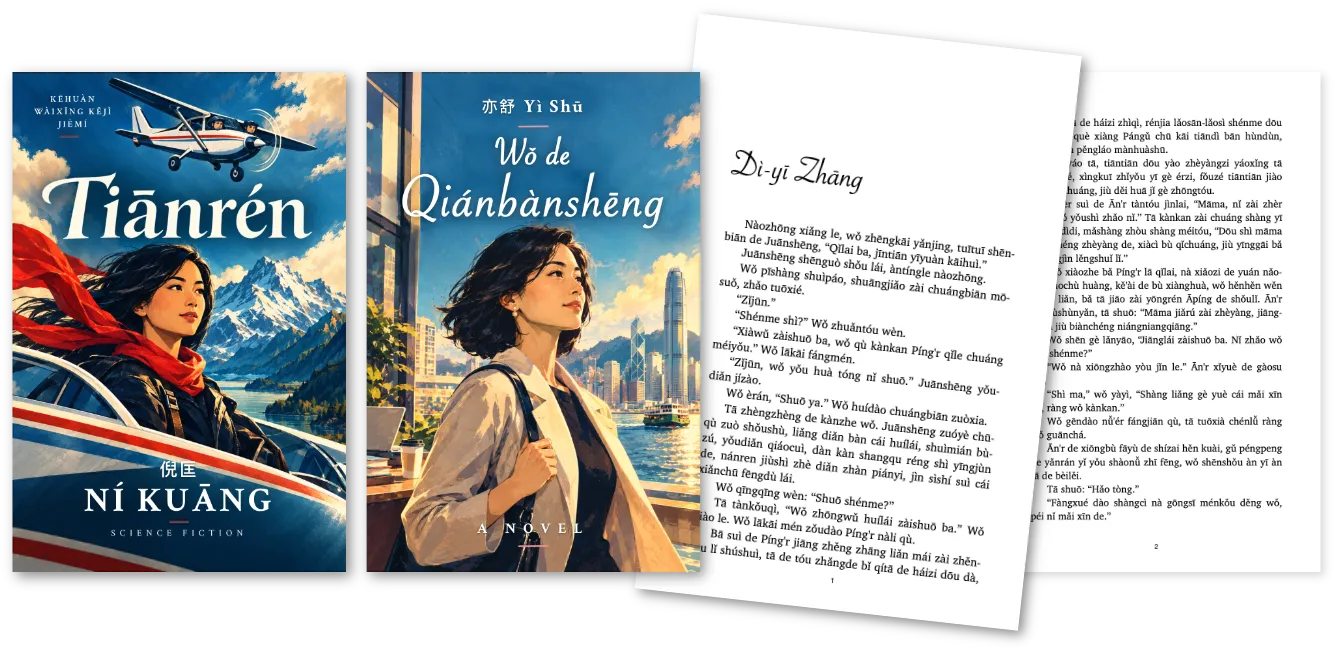
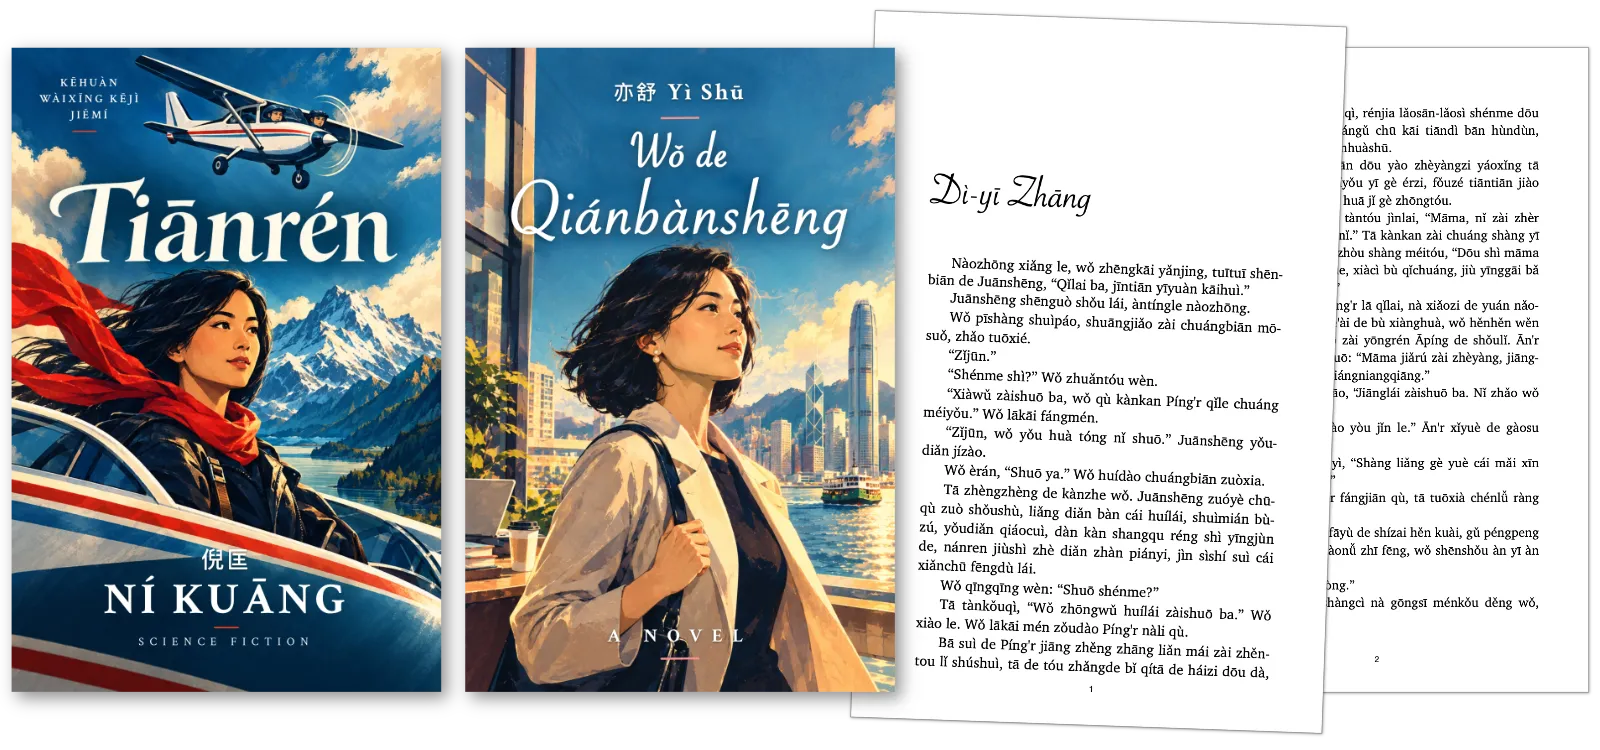
Update home page

diff --git a/content/manifesto 2.md b/content/manifesto 2.md
@@ -5,11 +5,11 @@ seo_description: "Why bypassing the character barrier unlocks immediate access t
 url: "/manifesto/"
 ---
 
-{{< hero level="h0" title="From Soundboard to Native Text." subtitle="The methodology and software behind Pīnyīn Explorer Method is designed to take you directly into authentic Mandarin." >}}
+{{< hero level="h0" title="Real Mandarin From Day One." subtitle="You don't need to know thousands of Chinese characters to start learning Mandarin. The Pīnyīn Explorer method takes you straight into authentic modern Mandarin through official Hànyǔ Pīnyīn." >}}
 
 {{< cta_button text="Download macOS Apps" url="/download/" style="primary" >}}
 
-{{< hero src="/images/modern-chinese-novels-pinyin_no_hanzi.webp" title="" subtitle="What if… modern Chinese novels could be read entirely in Hànyǔ Pīnyīn, and found in bookstores alongside the world’s great literature?" >}}
+{{< hero src="/images/book_covers_modern_chinese2.webp" title="" subtitle="What if… modern Chinese novels could be read entirely in Hànyǔ Pīnyīn, and found in bookstores alongside the world’s great literature?" >}}
 
 ---
 
@@ -125,15 +125,7 @@ Hànyǔ Pīnyīn is far more than a pronunciation aid or a way to input Chinese 
 
 ### Immediate access to the language
 
-{{< img src="/images/pinyin_explorer_scifi_future_banner.webp" alt="" shadow="true" >}}
-
-{{< box header="Liú Cíxīn • 三体 • ◼001" shadow="true" subtitle="Excerpt from Liú Cíxīn’s »The Three-Body Problem« in official Hànyǔ Pīnyīn" >}}
-Wāng Miǎo juéde, lái zhǎo tā de zhè sì gè rén shì yī gè qíguài de zǔhé: liǎng míng jǐngchá hé liǎng míng jūnrén, rúguǒ nà liǎng gè jūnrén shì wǔjǐng hái suàn zhèngcháng, dàn zhè shì liǎng míng lùjūn jūnguān.
-
-“Qǐng bù yào zài wǒ jiā lǐ chōuyān.” Wāng Miǎo lánzhùle tā.
-
-“Nà jiù zài lóudào lǐ shuō ba.” Shǐ Qiáng shuōzhe, shēnshēn de xīle yī dàkǒu, shǒu zhōng de yān jīhū rán xiàqù yībàn.
-{{< /box >}}
+{{< img src="/images/santi_three_body_problem_pinyin@1.webp" alt="The first paragraph from Liu Cixin’s trilogy »The Three-Body Problem«" shadow="true" >}}
 
 What if you could dive straight into the original Chinese of Liu Cixin’s masterpiece, The Three-Body Problem—grappling with the vocabulary, unspooling the grammar, and soaking in the references—without spending five years memorizing characters first? Learning the language and tackling a sci-fi novel like this will be hard enough, even without the characters.
 
@@ -147,103 +139,166 @@ Some people even find Hànyǔ Pīnyīn a particularly charming use of the Latin 
 
 {{< hero src="/images/3steps.webp" title="" subtitle="" >}}
 
-A clear, structured pathway to fluent Mandarin reading and progressive text comprehension:
+A clear, structured path to fluent Mandarin reading and progressive text comprehension:
 
 ## 1. Pronunciation & Sound Immersion
-Master the complete monosyllabic and phonotactic inventory of Mandarin. Before worrying about complex compound meanings, train your ears and vocal muscles using the **Pīnyīn A-Z Soundboard**. Click, listen, shadow, and group syllables to build an intuitive phonological foundation and eliminate tone confusion from day one.
+Start with the complete monosyllabic, phonotactic, and morphemic inventory on the **A-Z Soundboard**. Audition every dictionary-backed base word before touching compound meanings. Click, listen, shadow, and group syllables to build an intuitive phonological foundation and eliminate tone confusion from day one.
 
 {{< img src="/images/pinyin_soundboard_wide.webp" alt="Pīnyīn A-Z Soundboard" shadow="true" >}}
 
-## 2. Core Anchor Words & Semantic Mapping
-Build your foundation around **365 monosyllabic core anchor words**—the structural root elements of modern Mandarin. 
+## 2. Master the 365 Core Anchor Words
 
-1. **Drill the Roots:** Use the built-in Flashcard and Quiz system to master high-leverage monosyllabic root words.
-2. **Map the Networks:** Branch these roots out into thousands of compound words using hand-drawn **Semantic Word Maps**. Connecting root concepts to practical compounds turns isolated memorization into a web of meaningful context.
+For your vocabulary learning, you start out with learning 365 monosyllabic core anchor words. These form much of the basic fabric of the language. To do so, you'll play with Pīnyīn Explorer's built in Flashcard and Quiz system. This is the ultimate high-leverage shortcut to modern Mandarin.
 
-{{< img src="/images/pinyin_explorer_shall_we_play.webp" alt="Start a Quiz Game in Pīnyīn Explorer" shadow="true" >}}
+{{< img src="/images/pinyin_explorer_shall_we_play.webp" alt="Start a Quiz Game in Pīnyīn Explorer to Master the 365 Core Anchor Words" shadow="true" >}}
+
+**The Ingenuity Behind the 365 Core Anchor Words**
+
+* **Building Phonetic Intuition:** When a single Pīnyīn syllable represents multiple meanings, traditional flashcards bloat up in numbers quickly. By organizing vocabulary into clear semantic word families, you instantly recognize the core meaning behind each one-syllable word as you hear or read it.
+
+* **High-Leverage Vocabulary:** These 365 root words form the foundation of everyday Mandarin. By mastering these core monosyllabic building blocks first, compound words and new vocabulary becomes significantly easier to deduce, remember, and connect in context.
+
+* **The Foundation for Semantic Word Maps:** By branching these 365 words out into thousands of compound words, you grow your understanding how Mandarin vocabulary grows.
 
 ## 3. Transition into Authentic Reading
-Skip artificial graded readers. Drop real podcast transcripts, news articles, and native media directly into the **Peekaboo Reader**. Progress smoothly from recognizing basic punctuation and high-frequency anchor nodes to reading unassisted native text out loud.
+Skip artificial graded readers. Drop real podcast transcripts, news articles, and native media directly into the **Peekaboo Reader**. Follow a progression from recognizing basic punctuation and high-frequency anchor nodes to reading native text out loud.
 
-{{< img src="/images/pinyin_reader_graded_reader_by_frequency.webp" alt="Peekaboo Reader Frequency Masking" shadow="true" >}}
+{{< img src="/images/pinyin_reader_graded_reader_by_frequency.webp" alt="All words are hidden except for the most frequent 15 words" shadow="true" >}}
+
+Over the course of two years, dozens of prototypes, and countless iterations, Peekaboo Reader evolved from a simple idea to a highly sophisticated reading tool.
 
 {{< cta_button text="Download macOS Apps" url="/download/" style="primary" >}}
 
 ---
 
-{{< hero level="h0" title="The Pīnyīn Explorer Toolkit" subtitle="Dedicated Software & Paper Exercises" >}}
+{{< hero level="h0" title="The Pīnyīn Explorer Toolkit" subtitle="The Apps and Exercises with Pen & Paper" >}}
 
-Every stage of your journey is supported by specialized tools engineered for deep, friction-free learning.
+A carefully designed set of tools supports your progression on every stage of the journey, from pronunciation to fluent reading.
 
-## 1. Pīnyīn A-Z Soundboard
-*Speak Mandarin from Day One*
+## Pīnyīn A-Z Soundboard
 
-The ultimate interactive Pinyin chart—featuring 2,000+ native recordings, pitch visualizers, and surgical filtering options.
-
-When 'Lexicalised' mode is toggled on, you aren't just looking at random theoretical syllables—you're looking at actual, standalone single-syllable words found in the dictionary.
+Speak Mandarin from day one. The complete monosyllabic, phonotactic, and morphemic inventory of modern Mandarin. The ultimate Pinyin chart. 2,000+ native recordings, pitch visualizer, and extensive search and filtering options.
 
 {{< img src="/images/pinyin_az_soundboard_hero_sans@1.webp" alt="Pīnyīn A-Z Soundboard" shadow="true" >}}
 
-* **Complete Dictionary-Backed Inventory:** Explore 1,290+ real, standalone single-syllable words (over 2,000 including 5th tone variations) rather than theoretical sound blocks.
-* **Pitch Visualizer:** Real-time fundamental frequency curves clarify true native pitch dynamics beyond rigid textbook diagrams.
-* **Phonotactic Mastery:** Train your intuition to recognize valid syllable structures instantly and catch misspellings in the wild.
-* **Power Features:** First-class keyboard navigation, active recall testing (blur/unblur columns), configurable autoplay loops, and a instant Dual-Notation toggle (Pīnyīn / Bopomofo).
-
-{{< img src="/images/mandarin_pinyin_pitch_visualiser.webp" alt="Mandarin Pinyin Pitch Visualiser" shadow="true" >}}
+* **Monosyllabic Foundation:** Mandarin isn't built on long, winding words like German or English—it’s built on distinct single-syllable words. All of them are listed in the Pīnyīn A-Z Soundboard.
+* **Real Words (2,056 Human Recordings):** When "Lexicalised" mode is toggled on, you aren't just looking at random theoretical syllables—you're looking at actual, standalone single-syllable words found in the dictionary. 1,290 words to be precise (1,535 if we include words with the 5th, collapsed tone.) Click on any word to hear it spoken out loud, or jump directly to its definition in the Pīnyīn Explorer dictionary.
+* **Phonotactic Boundaries:** "Phonotactics" simply means the strict rules that dictate which sound combinations are allowed in a language. Working with the Pīnyīn A-Z Soundboard trains your eyes and ears to intuitively recognize valid Mandarin words, and thus spot misspelled words out there in the real world.
 
 ---
 
-## 2. Pīnyīn Explorer
-*Structural Dictionary & Quiz System*
+### A Power Chart Like No Other
 
-A thoughtfully designed Chinese–English dictionary built specifically to reveal how Mandarin vocabulary connects and branches.
+Looking closely at the UI reveals extraordinary power features that standard web Pīnyīn charts don't even attempt to offer:
+
+{{< hero src="/images/mandarin_pinyin_pitch_visualiser.webp" alt="The 4 tones as everyone had to learn them"
+shadow="true" >}}
+
+* **Pitch Visualiser:** Displays the exact fundamental frequency contour curve for every syllable, helping your eyes (and ears) to make sense of the true native pitch dynamics.
+* **First-Class Keyboard Navigation:** You don't need to click items several times to arrive at them or hear their pronunciation. The navigation is well thought out and lets you browse the soundboard efficiently and effortlessly.
+* **Active Recall Testing:** Blur entire columns and unblur single words to reveal them, to test your phonetic memory and ear recognition on the fly.
+* **Autoplay:** Hands-free drill mode with configurable loops, adjustable intervals, and customizable column-end behaviors (*Flow*, *Loop*, *Wall*).
+* **Dual Notation Toggle:** Switch between Hànyǔ Pīnyīn and Bopomofo (Zhuyin) without breaking your workflow.
+* **Sorting, Scoping & Tone Isolation:** Sort by native frequency vs. alphabet, toggle lexicalized dictionary entries vs. all theoretically possible variants, or filter specific tone combinations to eliminate tone confusion permanently.
+
+{{< img src="/images/pinyin_soundboard_filter.webp" alt="Unlimited filtering options to drill the hardest combinations" shadow="true" >}}
+
+{{< img src="/images/chinese_mandarin_bopomofo_soundboard.webp" alt="Some say Bopomofo is the only way to live, let's go!" shadow="true" >}}
+
+
+## Pīnyīn Explorer
+
+A thoughtfully designed Pīnyīn-first Chinese–English dictionary for exploring the structure of Mandarin vocabulary.
+
+### Iconic features of Pīnyīn Explorer:
+
+- 114,000+ entries adapted for Pīnyīn-based lookup
+- Adjustable dictionary size based on frequency or syllabus
+- Syllable-grouped columns with click-through headwords
+- A comprehensive inventory of monosyllabic words, browsable by multiple metrics
+- A classic five-box Leitner flashcard and quiz system with pedagogically structured learning progressions
+- Built on original research into modern spoken Mandarin
+
+### Syllable-Grouped Columns with Click-Through Headwords
 
 {{< img src="/images/pinyin_explorer_hero_sans@1.webp" alt="Pīnyīn Explorer" shadow="true" >}}
 
-* **114,000+ Lookups & Multi-Column Layout:** Replace overwhelming vertical list dumps with clean, cascading syllable tiers that display how base roots expand into compounding networks.
-* **Adjustable Dictionary Scope:** Filter dictionary density by HSK levels (1–9), top 12,000 everyday terms, or top 50,000 extended entries.
-* **3D Structural Dimensions:** Explore monosyllabic roots by **Semantic Density** (single-meaning vs. overloaded roots), **Productive Compounds** (standalone vs. high-building-block roots), and **Word Frequency**.
-* **Distraction-Free Leitner Flashcards:** A classic 5-box Leitner system as intended in the original design of Sebastian Leitner’s 1972 book 'So lernt man lernen'—with zero notifications, stats, streaks, or email fluff.
+The dictionary search interface of Pīnyīn Explorer solves the chaotic, endless-list problem of traditional dictionary apps.
 
-{{< img src="/images/pinyin_explorer_frequent_words.webp" alt="Monosyllabic root inventory sorted by frequency" shadow="true" >}}
+Instead of an overwhelming vertical dump of thousands of entries, the interface uses a clean, cascading multi-column layout of syllable tiers—refocusing the entire coordinate system around your selection to reveal how words branch outward into deeper compounding networks.
 
----
+### Adjustable dictionary size based on frequency or syllabus
 
-## 3. Peekaboo Reader
-*Distraction-Free Masked Reading Environment*
+{{< img src="/images/pinyin_explorer_dictionary_cut_hsk3.webp" alt="Adjustable dictionary size based on frequency or syllabus" shadow="true" >}}
 
-Import text in Hànzì or Hànyǔ Pīnyīn from news, podcast transcripts, or translations and transform it into an interactive reading playground.
+* **Full Dictionary:** Access the complete lexicon without restrictions.
+
+* **Top 50,000 Entries:** Rich and expressive vocabulary, curated to filter out obscure or overly specialized terms (like rare bird species names 🦤).
+
+* **Top 12,000 Entries:** Core everyday expressions, ideal for navigating general topics and mainstream media.
+
+* **HSK 3.0 (Levels 1–9):** Perfectly aligned with standard curricula, allowing you to observe how official wordlists branch out, cluster, and overlap.
+
+### A Comprehensive Inventory of Monosyllabic Words, Browsable by Multiple Metrics
+
+{{< img src="/images/pinyin_explorer_frequent_words.webp" alt="The inventory of modern Mandarin by frequency" shadow="true" >}}
+
+Rather than sorting vocabulary purely by arbitrary textbook chapters, explore the entire inventory of single-syllable roots through three distinct structural dimensions:
+
+* **Semantic Density (Block Height):** Classified from *Sharply Defined* words with a single, clear meaning, up to *Excessively Overloaded* roots carrying dozens of distinct meanings across various contexts.
+
+* **Productive Compounds (Block Width):** Grouped from *Standing Alone* words with minimal combinatory use, up to *Core Building Blocks*—highly prolific roots that generate hundreds or even thousands of compound words.
+
+* **Word Frequency (Color Intensity):** Ranging from *Ubiquitous* structural anchors—words present in virtually every single Chinese sentence—down to *Long-Tail* descriptive terms that preserve the language’s depth.
+
+{{< hero src="/images/pinyin_explorer_quiz_cards.webp" title="" subtitle="The Flashcards and Quiz Game of Pīnyīn Explorer" shadow="true" >}}
+
+### Simple-looking but not simple
+
+The flashcards system is as simple as paper cards in boxes: a classic 5-box Leitner system as intended in the original design of the famous book by Sebastian Leitner “So lernt man lernen” (1972), with zero notifications, no stats, no streaks, no emails. 
+
+Likewise the quiz interface, but under the hood the quiz engine provides sophisticated progression algorithms, randomisation, and deck feeding—the result of months of research, fine-tuning, and engineering. 
+
+## Peekaboo Reader
+
+A plain-text reading environment with adjustable Pīnyīn visibility.
 
 {{< img src="/images/pinyin_peekaboo_reader_hero_sans@1.webp" alt="Pīnyīn Explorer’s Peekaboo Reader" shadow="true" >}}
 
-* **Smart Pīnyīn Masking:** Adjust visibility by word frequency or curated sets. Hide full compounds or individual morphemes, and hover for a quick "peek-a-boo" hint.
-* **Automatic Orthographic Segmentation:** Powered by our dictionary-guided segmentation engine (*Pīnyīn-Goat*), text written in Chinese characters is automatically converted into natural, readable Pīnyīn sentences following standard orthographic rules (GB/T 16159-2012).
-* **Deep Interactivity:** Hover over words for instant definitions, or click any term to jump straight into deeper exploration inside Pīnyīn Explorer.
+→ Read Mandarin from day one  
+→ Adjust Pīnyīn visibility by frequency or curated sets  
+→ Hide whole compounds or merely constituent morphemes  
+→ Hover over a hidden Mandarin word to have a quick peek-a-boo!  
+→ Built-in dictionary, just hover over a word to see its definition
+→ Click any word to explore it in Pīnyīn Explorer  
 
-### Question: Where do the Pīnyīn transcripts from?
-Bring your own, grab them from your favorite podcasts, leverage modern AI tools, copy it over from Google translate, or simply paste Chinese characters directly into the Peekaboo Reader. The built-in engine automatically converts Chinese characters text into natural, readable Pīnyīn sentences following **GB/T 16159-2012** orthographic standards.
+**Question: Where do I get the Pīnyīn transcripts from?**
 
-Under the hood, Peekaboo Reader uses a two-stage conversion engine engineered specifically for standard-compliant Mandarin:
+Bring your own, grab them from your favorite podcasts, leverage modern AI tools, copy it over from Google translate, or simply paste raw Chinese characters directly into the Peekaboo Reader. The built-in engine automatically converts raw text into natural, readable Pīnyīn sentences following **GB/T 16159-2012** orthographic standards—handling word boundaries and grammatical particles properly instead of leaving you with isolated syllables.
 
-1. **Word Segmentation (DAG + Viterbi):** A custom, dictionary-guided Unigram language model utilizes Directed Acyclic Graphs (DAG) and Viterbi dynamic programming for Maximum Likelihood Word Segmentation, resolving word boundaries with high precision. (pīnyīn-goat 🐐)
-2. **Orthographic Pipeline (GB/T 16159-2012):** The segmented output is transformed through an orthographic ruleset—handling polyphones, affix joining and grammatical particles, as well as punctuation to produce natural reading sentences. (OrthoPinyinEngine)
+Under the hood, Peekaboo Reader is powered by Pīnyīn-Goat 🐐—a specialized, dictionary-guided Unigram language model that uses Directed Acyclic Graphs (DAG) and Viterbi dynamic programming for Maximum Likelihood Word Segmentation. While no deterministic model gets language 100% right—you might spot a segmentation glitch once or twice a paragraph—its dynamic probability flooring, polyphone resolution, and orthographic pipeline deliver a remarkably fluid reading flow.
 
----
+## Semantic Word Maps
 
-## 4. Semantic Word Mapping
-*Analogue Pen & Paper Exercise*
+Drawing manual maps gives your creativity free rein while deep memory takes root. 
 
-While software handles lookup and flashcard drilling, drawing manual word maps engages spatial memory and creative association.
+1. **Place a base Pīnyīn word in the center**—for example, **dàn**.
+2. **Branch out into its primary senses:** **EGG**, **BULLET**, **WEAK**, or **HOWEVER**.
+3. **Choose your compounds:** Scan the word's column list in the Flashcards module—or search the Pīnyīn Explorer dictionary—and pick the compounds you like, find useful, or love. Capture words from your daily reading and listening, or simply ones that make you laugh. Why is a cake a *dàngāo* ("egg high" or "egg paste")? Why is a bullet a *zǐdàn* ("child egg")?
 
-{{< img src="/images/alfons_pinyin_word_map3.webp" alt="Creating a semantic word map" shadow="true" >}}
+{{< img src="/images/alfons_pinyin_word_map3.webp" alt="Where to put what on a semantic word map?" shadow="true" >}}
 
-1. **Anchor the Root:** Place a base Pīnyīn root in the center (e.g., **dàn**).
-2. **Branch Primary Senses:** Split the word into core meanings—**EGG**, **BULLET**, **WEAK**, or **HOWEVER**.
-3. **Attach Compounds:** Select compounds from your daily reading or dictionary searches and link them visually (*zǐdàn* = "child egg" = bullet).
+The semantic word maps work best when done regularly—for example, one or two maps per day.
 
-Building 1–2 word maps daily turns isolated vocabulary into an interconnected, permanent personal network.
+These maps help you discover a word's semantic families and most useful compounds. As you build your own, thousands of individual words gradually become an interconnected network.
 
-{{< img src="/images/alfons_pinyin_word_map2.webp" alt="Word Map examples" shadow="true" >}}
+### Curate Your Own Lexicon
+
+The foundation is built on the 365 curated words from Pīnyīn Explorer, but you can always choose your own root words outside this set (like *xuě*, *shǔ*, or *qū*).
+
+By actively choosing which words to map, you become the true owner of your vocabulary. It’s a creative process using pen and paper—or a stylus and iPad. Enjoy!
+
+{{< img src="/images/alfons_pinyin_word_map2.webp" alt="How many word maps are enough?" shadow="true" >}}
 
 ---
 
